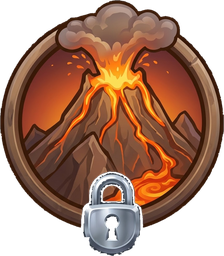
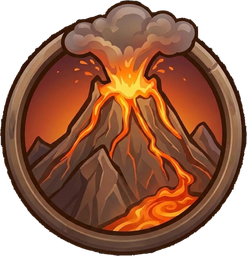
Le volcan perd son cadenas
`volcanbon.jpg` remplace `volcan.jpg` comme source du médaillon de
l'Acropole. Le cadenas chevauchait le disque : il ne pouvait pas être
découpé sans entamer le dessin, et l'Acropole aurait eu l'air verrouillée
même au niveau 30.

Corriger la source était la seule sortie, et c'est la bonne — le médaillon
ne porte plus aucun état, et l'application redevient seule à en décider :
voile et cadenas dans l'intitulé tant que le niveau n'est pas atteint,
cadre d'or ensuite.

`assets/ui/README.md` récapitule au passage la commande de détourage de
chaque image, celle du désert et son recadrage circulaire compris.

Claude-Session: https://claude.ai/code/session_01T1wKnrYq8k32sQugeDo8Xv

diff --git a/assets/ui/README.md b/assets/ui/README.md
@@ -19,7 +19,7 @@ README voisin explique comment le remplacer.
 | `desert.png` | Le médaillon de l'**Agora**, sur la frise de l'onglet Jouer |
 | `vague.png` | Le médaillon du **Port** |
 | `foret.png` | Le médaillon du **Bois sacré** |
-| `volcan.png` | Le médaillon de l'**Acropole** |
+| `volcan.png` | Le médaillon de l'**Acropole** — détouré de `volcanbon.jpg` |
 | `bouton-match.png` | La plaque « TROUVER MATCH », sur la carte de l'arène |
 | `bouton-continuer.png` | La plaque « CONTINUER », sur la carte de la course |
 
@@ -75,17 +75,41 @@ Deux conséquences visibles :
   pastille « bientôt ». Le mode n'existe pas encore ; la plaque l'annonce sans
   le promettre.
 
-## Deux états cuits dans le dessin
+## Un état cuit dans le dessin, et comment il a été réglé
 
-⚠ `desert.jpg` et `volcan.jpg` portent un état **dessiné dans l'image** :
-un halo doré pour l'un, un cadenas pour l'autre. Or l'application calcule
-l'état d'un chapitre à partir du niveau du joueur — un cadre d'or quand il est
-atteint, un voile quand il ne l'est pas.
+⚠ Une image de médaillon ne doit porter AUCUN état. L'application calcule
+elle-même si un chapitre est atteint — cadre d'or quand il l'est, voile quand
+il ne l'est pas — à partir du niveau du joueur. Un halo ou un cadenas dessiné
+dans le fichier contredit ce calcul un chapitre sur deux.
 
-Le halo du désert a été retiré, en recadrant sur le cercle du médaillon
-(option `--cercle`, voir `tools/detourer.py`). **Le cadenas du volcan, lui,
-reste** : il chevauche le disque, on ne peut pas le découper sans entamer le
-dessin. L'Acropole aura donc l'air verrouillée même une fois le niveau 30
-atteint. Pour y remédier, il faut **régénérer `images/volcan.jpg` sans le
-cadenas**, comme `vague.jpg` et `foret.jpg` qui n'en portent pas, puis relancer
-le détourage.
+Les deux sources qui en portaient un ont été traitées différemment, parce que
+la géométrie ne laissait pas le choix :
+
+- **`desert.jpg`** porte un halo doré, DESSINÉ par-dessus le damier. Là, il n'y
+  a plus de damier à reconnaître — les carreaux n'y alternent plus — donc
+  aucune analyse ne peut le retirer. Le halo étant hors du disque, on recadre
+  sur le cercle du médaillon (option `--cercle`, voir `tools/detourer.py`).
+- **`volcan.jpg`** portait un cadenas, et lui chevauchait le disque : impossible
+  à découper sans entamer le dessin. Il a fallu régénérer l'image. C'est
+  **`volcanbon.jpg`** qui sert aujourd'hui, et c'est la bonne façon de s'en
+  sortir — corriger la source plutôt que rattraper au découpage.
+
+## Refaire un fichier
+
+Les commandes exactes, une par image :
+
+```
+python3 tools/detourer.py "images/Olympe.jpg"          assets/ui/olympe.png    256x256
+python3 tools/detourer.py "images/passe de combat.jpg" assets/ui/passe.png     256x256
+python3 tools/detourer.py "images/boutique.jpg"        assets/ui/boutique.png  256x256
+python3 tools/detourer.py "images/pièce-or.jpg"        assets/ui/piece-or.png  192x192
+python3 tools/detourer.py "images/laurier.jpg"         assets/ui/laurier.png   192x192
+python3 tools/detourer.py "images/zeus joueur.jpg"     assets/ui/zeus.png      256x256
+python3 tools/detourer.py "images/vague.jpg"           assets/ui/vague.png     256x256
+python3 tools/detourer.py "images/foret.jpg"           assets/ui/foret.png     256x256
+python3 tools/detourer.py "images/volcanbon.jpg"       assets/ui/volcan.png    256x256
+python3 tools/detourer.py "images/bouton match.jpg"    assets/ui/bouton-match.png     768x768
+python3 tools/detourer.py "images/bouton continuer.jpg" assets/ui/bouton-continuer.png 768x768
+python3 tools/detourer.py "images/desert.jpg"          assets/ui/desert.png    256x256 \
+    --cercle 512,575,444
+```
